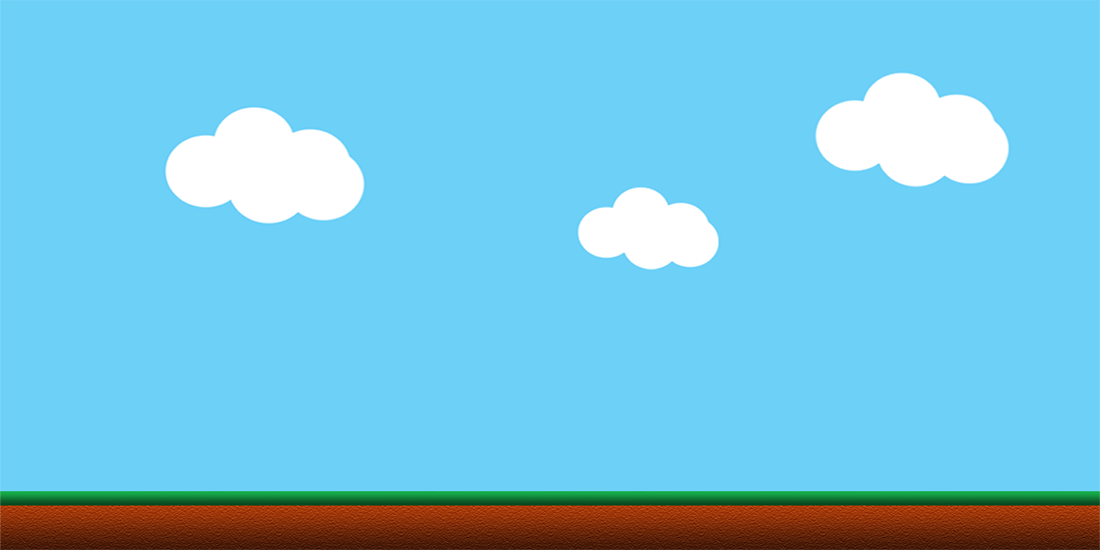
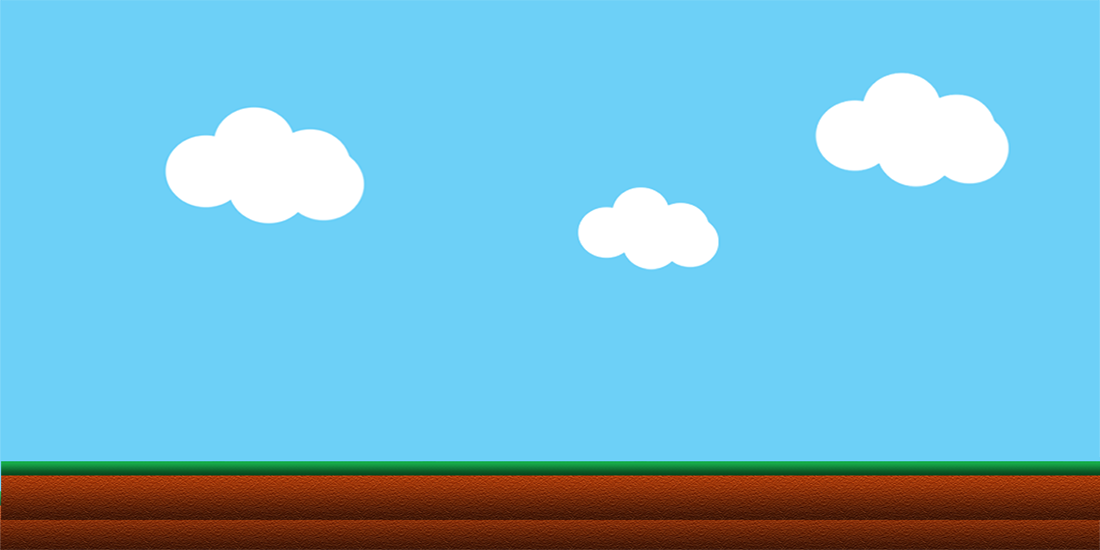
Fixed some collision BUGS and also started creating the level structure through color of pixel identification.

Changed region(s): [[0.0, 0.8345, 1.0, 0.9582]]

diff --git a/CatchTheDeadline/src/window/GameEngine.java b/CatchTheDeadline/src/window/GameEngine.java
@@ -1,10 +1,6 @@
 package window;
 
-import gameManager.Animation;
-import gameManager.Camera;
-import gameManager.Handler;
-import gameManager.InputManager;
-import gameManager.Texture;
+import gameManager.*;
 import gameobjects.*;
 
 import java.awt.*;
@@ -22,22 +18,47 @@ public class GameEngine extends Canvas implements Runnable {
     static Texture texture;
     public static int WIDTH, HEIGHT;
 
+    private BufferedImage level1 = null;
+
     private ImageIcon level = new ImageIcon(getClass().getResource("/images/level.png"));
     
     public void init() {
         WIDTH = getWidth();
         HEIGHT = getHeight();
-             
+
+        BufferedImageLoader bufferedImageLoader = new BufferedImageLoader();
+        level1 = bufferedImageLoader.loadImg("/images/level1.png");
+
         texture = new Texture();
         handler = new Handler();
         cam = new Camera( 0, 0 );
-        handler.addObject( new Player(100, 100, handler,ObjectType.Player) );
-        handler.level();
+
+        //handler.addObject( new Player(100, 100, handler,ObjectType.Player) );
+        //handler.level();
+        createLevel(level1);
+
         this.addKeyListener( new InputManager(handler) );
     }
 
-    public void loadImageLevel( BufferedImage img ) {
-    	
+    public void createLevel( BufferedImage img ) {
+    	int width = img.getWidth();
+    	int height = img.getHeight();
+    	for (int i = 0; i < height; i++) {
+    	    for (int j = 0; j < width; j++) {
+    	        int pixel = img.getRGB(i, j);
+    	        int red = (pixel >> 16) & 0xff;
+    	        int green = (pixel >> 8) & 0xff;
+    	        int blue = (pixel) & 0xff;
+
+    	        if (red == 255 && green == 255 && blue == 255) {
+                    handler.addObject( new Block( i * 38, j * 38, ObjectType.Block) );
+                }
+                if (red == 0 && green == 0 && blue == 255) {
+                    handler.addObject( new Player(i + 200, j + 100, handler,ObjectType.Player) );
+                }
+
+            }
+        }
     }
     
     public synchronized void start() {

diff --git a/CatchTheDeadline/src/gameobjects/Player.java b/CatchTheDeadline/src/gameobjects/Player.java
@@ -42,7 +42,7 @@ public class Player extends GameObject {
 	ImageIcon JumpGIF = new ImageIcon(getClass().getResource("/images/JumpGIF.gif"));
 	ImageIcon KO_GIF = new ImageIcon(getClass().getResource("/images/KO_GIF.gif"));
 	
-	private float gravity = 0.1f;
+	private float gravity = 0.2f;
 	private float width = player.getIconWidth(), height = player.getIconHeight();
 	
 	// constructor
@@ -75,7 +75,9 @@ public class Player extends GameObject {
 					posX = temp.getPosX() - width;
 				}
 				if( objectBoundsLeft().intersects( temp.objectBounds() ) ) {
-					posX = temp.getPosX() + width;
+					posX = temp.getPosX() + 40;
+					// DEBUG
+					//System.out.println(width);
 				}
 			}
 		}
@@ -133,7 +135,7 @@ public class Player extends GameObject {
 		
 		//graphics2d.drawImage( player.getImage(), (int) posX+10, (int) posY+10, null );
 		
-		///////////~FOR CHECKING BOUNDS~///////////////////////////
+		///////////~FOR CHECKING BOUNDS ON DEBUG MODE~///////////////////////////
 		//graphics.setColor(Color.red);
 		//Color myColour = new Color(255, 0, 0, 0); // for making the lines transparent
         //graphics.setColor(myColour);

diff --git a/CatchTheDeadline/src/gameManager/BufferedImageLoader.java b/CatchTheDeadline/src/gameManager/BufferedImageLoader.java
@@ -1,0 +1,19 @@
+package gameManager;
+
+import javax.imageio.ImageIO;
+import java.awt.image.BufferedImage;
+import java.io.IOException;
+
+public class BufferedImageLoader {
+
+    private BufferedImage img;
+
+    public BufferedImage loadImg (String path) {
+        try {
+            img = ImageIO.read(getClass().getResource(path));
+        } catch (IOException e) {
+            e.printStackTrace();
+        }
+        return  img;
+    }
+}
